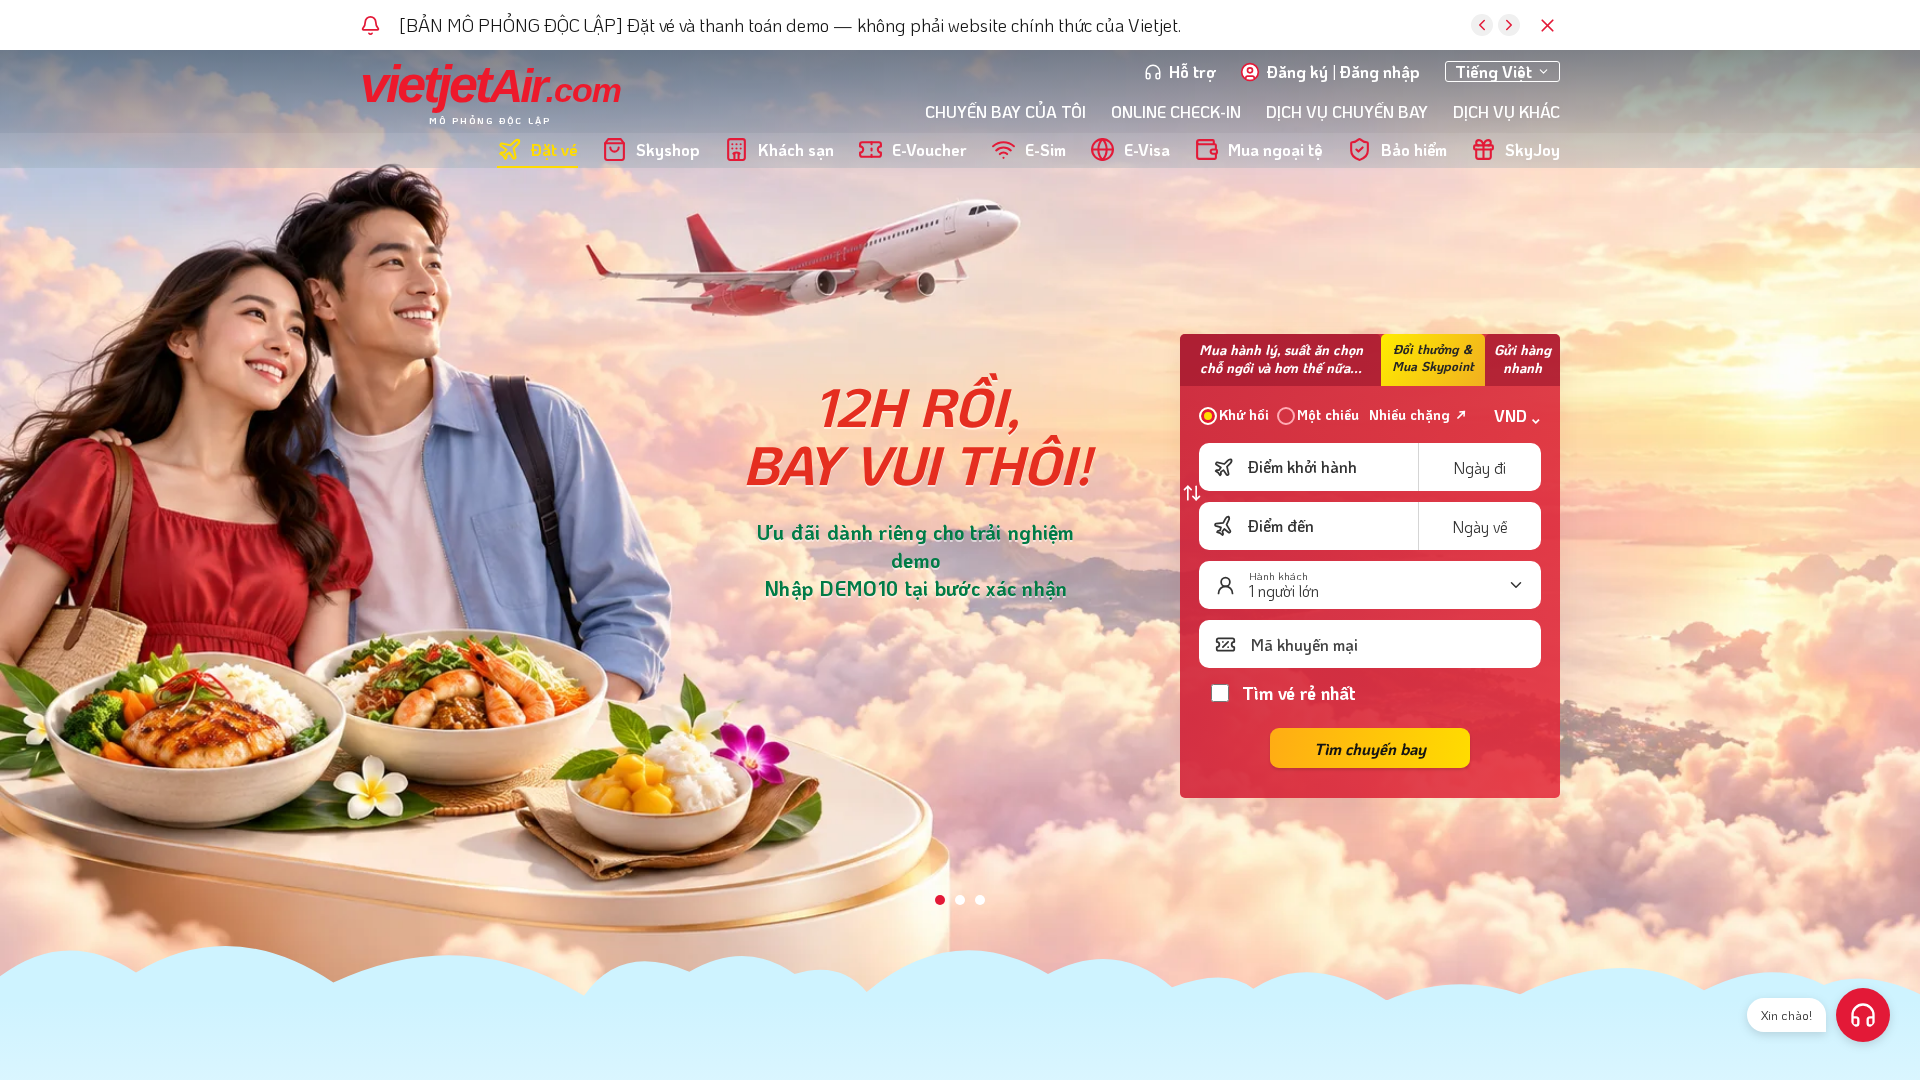
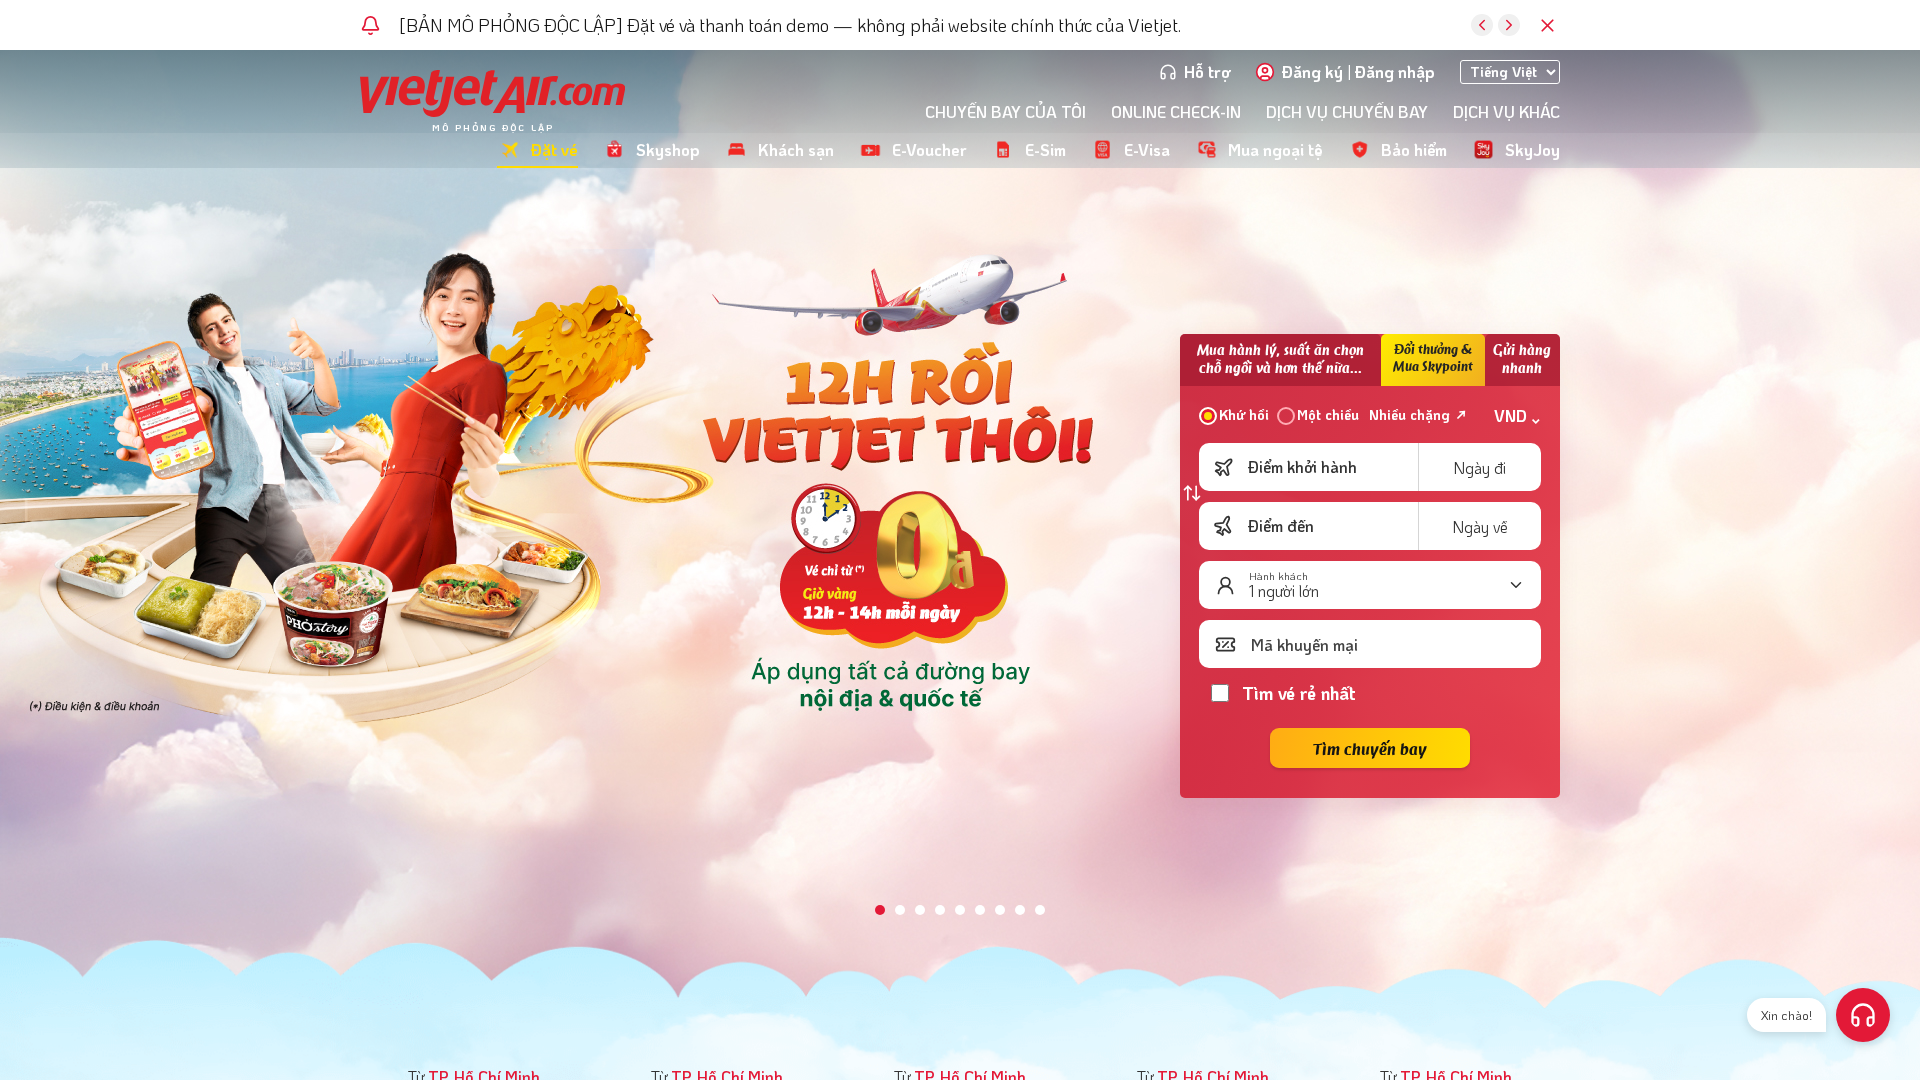
docs: lưu đối chiếu trang chủ và kết quả 30 backend 42 E2E

diff --git a/docs/verification/HOMEPAGE.md b/docs/verification/HOMEPAGE.md
@@ -1,9 +1,31 @@
-# Kiểm chứng trang chủ
+# Kiểm chứng trang chủ sau căn chỉnh
 
-Ngày 11/10/2026, Playwright Chromium truy cập `http://localhost:5173`, backend thật tại 8085 và PostgreSQL Docker tại 5438.
+Ngày 11/10/2026, Chromium kiểm tra Vite preview tại `http://localhost:5173`, Spring Boot tại 8085 và PostgreSQL local tại 5438. Kết quả mới nằm trong [home-alignment-results.json](home-alignment-results.json) và [home-checks.json](home-checks.json).
 
-Đã chụp toàn chiều dài và vùng đầu ở 1920×1080, 1440×900, 768×1024, 390×844. `home-checks.json` ghi nhận từng viewport: không pageerror, không tràn ngang, không ảnh hỏng. Đã thao tác sân bay SGN/HAN và lịch hai tháng, 61 ngày của tháng 10/11. Đã build Vite thành công.
+Trang chủ hiện dùng logo/font tiêu đề, chín banner với ảnh desktop/mobile, nền mây, ảnh khuyến mãi, sáu icon tiện ích, banner SkyJoy/mua sắm, ảnh dịch vụ/điểm đến, FAQ và giải thưởng từ bản tham chiếu. Nguồn 76 file nằm trong [sources.json](../../frontend/public/assets/reference/sources.json); asset được phục vụ từ local. V8 thêm sáu bản ghi HERO vào bảng nội dung hiện có, vẫn chỉnh được trong ADMIN.
 
-`desktop-comparison.png`: reference bên trái, local bên phải, cùng viewport. Đối chiếu trực quan đã dẫn tới sửa chiều cao tab form từ 69px xuống 52px, tăng icon/kích thước menu, giữ form rộng 380px và vị trí theo breakpoint desktop. Container 1200px và thứ tự section bám khảo sát.
+Các lệnh xác minh:
 
-Khác biệt còn lại: banner tạo mới, logo chữ/font Jambono thay thế, nền mây/section khuyến mại không dùng ảnh độc quyền của hãng, nội dung demo, ba banner thay vì chín, footer giới thiệu demo. Mobile giữ bộ chọn hành khách/mã khuyến mại để hoàn tất nghiệp vụ dù snapshot tham chiếu thu gọn các trường này. Không tuyên bố pixel-perfect tuyệt đối hoặc độ giống 100%.
+- `./backend/mvnw -f backend/pom.xml verify`: 30 test, không lỗi/thất bại/bỏ qua; migration V8 chạy trên PostgreSQL Testcontainers độc lập.
+- `npm run build`: đạt. `npm run check:i18n`: 522 vị trí dịch, 692 bản dịch tiếng Anh. Không thêm dependency của ứng dụng.
+- `npm run test:e2e`: 42 ca đạt trong một lượt hoàn chỉnh, gồm chín banner/vuốt từ banner cuối về đầu, caption CMS tùy chỉnh, footer mobile qua bàn phím và resize, đặt vé/check-in, quản lý, tài khoản, thương mại và quản trị.
+- `npm run verify:home`: desktop 1920×1080, laptop 1440×900, tablet 768×1024, mobile 390×844 đều không ảnh hỏng, link rỗng, lỗi console/pageerror hay tràn ngang. Ảnh được chụp sau khi cuộn và tải xong ảnh lazy.
+
+Đối chiếu tọa độ Y tại viewport 1920px, theo `docs/reference/audit.json` và số đo DOM local; đơn vị px:
+
+| Khối | Tham chiếu | Local |
+|---|---:|---:|
+| Khung đặt vé | 334 | 334 |
+| Đặt vé ngang | 1480,016 | 1480 |
+| Banner thông tin | 1719,016 | 1718,484 |
+| Icon tiện ích | 2070,531 | 2070,984 |
+| SkyJoy | 2321,531 | 2320,578 |
+| Mua sắm | 3040,844 | 3040,578 |
+| Điểm đến | 3570,875 | 3570,578 |
+| Các ô FAQ | 4118,375 | 4118,078 |
+
+Container rộng 1200px, khung đặt vé rộng 380px. Sai lệch dưới 1px trong bảng là tọa độ của các khối đã đo, không phải phần trăm giống ảnh của toàn trang.
+
+Ảnh mới: [desktop đầy đủ](home-desktop-full.png), [laptop đầy đủ](home-laptop-full.png), [tablet đầy đủ](home-tablet-full.png), [mobile đầy đủ](home-mobile-full.png); các file `home-*-top.png` ghi vùng đầu trang. `desktop-comparison.png` và ảnh checkout cũ là bằng chứng của lượt triển khai trước.
+
+Khác biệt còn lại: nhãn mô phỏng, giá/nội dung giao dịch từ API demo, chú thích số liệu, nội dung footer và nút hỗ trợ nội bộ thay chatbot hãng. Mobile giữ hành khách/mã khuyến mại để dùng đủ nghiệp vụ. Chữ bên trong poster tham chiếu vẫn là tiếng Việt khi chuyển giao diện sang tiếng Anh. Không công bố độ giống 100% hoặc xác minh hosting production.

diff --git a/docs/REFERENCE_AUDIT.md b/docs/REFERENCE_AUDIT.md
@@ -33,7 +33,7 @@ Viewport: desktop 1920×1080; laptop 1440×900; tablet 768×1024; mobile 390×84
 - Font nội dung: `KoHo`, sans-serif; tiêu đề/nút quảng cáo: `JambonoMedium`/`jambono-medium`.
 - Nội dung thường 16px, tiêu đề card 18px, tiêu đề banner 24px. Tiêu đề banner ribbon cao 42px tại desktop.
 - Container 1200px; ba cột dịch vụ có bước x≈410px, gap khoảng 30px. Sáu điểm đến có nhịp tương ứng.
-- Màu chủ đạo: đỏ, vàng, trắng, nền trời xanh. Màu computed chi tiết nằm trong JSON. Sản phẩm sẽ dùng biến CSS và KoHo (Google Fonts, SIL OFL), font thay thế cho Jambono chưa có giấy phép.
+- Màu chủ đạo: đỏ, vàng, trắng, nền trời xanh. Màu computed chi tiết nằm trong JSON. Sản phẩm dùng biến CSS, KoHo (Google Fonts, SIL OFL) và font Jambono tải từ bản tham chiếu; nguồn ghi trong `ASSETS.md`.
 - Chuyển slide được quan sát tự động. Không đo chắc chắn easing/duration nội bộ, không khẳng định autoplay pause-on-hover đã xác minh.
 
 ## Responsive và tương tác
@@ -49,7 +49,7 @@ Viewport: desktop 1920×1080; laptop 1440×900; tablet 768×1024; mobile 390×84
 - Lazy loading không ổn định: một số lượt chụp laptop chỉ tải được vùng đầu trong thời gian chờ; desktop-full có nội dung đầy đủ là mốc cấu trúc chính. Không xem vùng trắng trong ảnh lỗi tải là layout cần sao chép.
 - Một số click bằng label bị input intercept hoặc popup trước đó còn mở. Lỗi giữ nguyên trong JSON; không khẳng định mọi menu, bàn phím, lịch giá, sticky behavior hay trang sau thanh toán của hãng đã được kiểm tra.
 - Không thực hiện giao dịch thật, không thử đăng nhập hãng và không vượt reCAPTCHA.
-- Chưa xác minh quyền tái sử dụng banner, ảnh, mascot và Jambono của hãng. Không đưa chúng vào frontend. Banner sẽ là ảnh tạo mới theo cùng bố cục; card dùng ảnh có giấy phép hoặc asset tạo mới. Logo là chữ dựng bằng CSS kèm nhãn mô phỏng, không dùng SVG gốc.
+- Quyết định ban đầu dùng ảnh tạo mới đã được thay đổi theo yêu cầu căn chỉnh giao diện. Frontend dùng bản tải local của logo, banner, icon, nền, ảnh dịch vụ/điểm đến và font tiêu đề tham chiếu; không gán giấy phép mở cho asset của chủ sở hữu gốc. Nguồn từng file nằm trong `frontend/public/assets/reference/sources.json`. Nhãn mô phỏng vẫn hiển thị; nút hỗ trợ dẫn vào nghiệp vụ nội bộ.
 - Bản demo giữ bố cục và thứ tự quan sát được, nhưng nội dung khuyến mại, giá, quy tắc check-in và quyền lợi hạng vé đều là dữ liệu demo. Nhãn độc lập hiển thị thường xuyên.
 - Chỉ VND cho giao dịch demo; ngôn ngữ và sản phẩm ngoài phạm vi có trang thông tin rõ ràng. Nhiều chặng được đánh dấu chưa hỗ trợ trong demo, không tạo luồng giả.
 

diff --git a/docs/VERIFICATION.md b/docs/VERIFICATION.md
@@ -41,7 +41,7 @@ Booking và hai test trang chủ chạy ở 1920×1080, 1440×900, 768×1024, 39
 
 ## Sai lệch và giới hạn
 
-Đối chiếu header/hero/widget/container/section/footer với snapshot reference đã thu thập, đã sửa kích thước tab, menu và breakpoint. Hero đã có ba ảnh riêng, chiến dịch 12h dùng bố cục người/món ăn bên trái và tiêu đề ở giữa; tablet xếp form dưới banner theo screenshot tham chiếu. Ảnh tạo mới, logo chữ, font tiêu đề thay thế, số slide, section khuyến mại/achievement minh họa và nội dung demo vẫn khác reference. Chưa có metric chứng minh pixel-perfect; không công bố độ giống 100%.
+Lượt căn chỉnh mới dùng logo/font/banner/nền/icon và ảnh dịch vụ/điểm đến tham chiếu, đủ chín slide. Header, khung đặt vé và các khối chính được đối chiếu số đo desktop; bốn viewport có ảnh full/top mới. Kết quả kiểm chứng mới nằm trong [HOMEPAGE.md](verification/HOMEPAGE.md); bảng và ảnh checkout phía trên là kết quả lịch sử. Nội dung giao dịch, nhãn demo, chatbot và footer vẫn có khác biệt; không công bố độ giống 100%.
 
 Một số trang/interaction reference chưa xác minh do lazy loading và popup; không vượt hạn chế truy cập. Nghiệp vụ nội bộ nhiều chặng/nhóm, đổi/mua thêm/hoàn vé, quản trị và thương mại đã được bổ sung; kết quả mới ở [INTERNAL_VERIFICATION.md](INTERNAL_VERIFICATION.md). Dịch vụ đối tác, email và vé/boarding pass thật còn trong backlog nhà cung cấp. Chỉ kiểm thử môi trường local; chưa triển khai hay kiểm chứng production hosting, load test, refund thật hoặc accessibility audit đầy đủ.
 
@@ -56,4 +56,4 @@ npm run test:e2e
 npm run verify:home
 ```
 
-Xem README để khởi động database/backend/frontend và cài Chromium. Kết quả lần chạy sau có thể thay đổi khi môi trường, ngày hoặc dữ liệu mẫu thay đổi; các test chọn ghế còn trống thay vì cố định một ghế đã được dùng. Test khứ hồi chọn ngày đủ hai ghế từ API; test một chiều chạy SGN–HAN ngày mai, chọn ghế tiêu chuẩn còn trống. Nếu đã dùng hết các chuyến/ghế tiêu chuẩn của hành trình đó, cần chọn ngày khác cho fixture hoặc dùng môi trường demo riêng.
+Xem README để khởi động database/backend/frontend và cài Chromium. Kết quả lần chạy sau có thể thay đổi khi môi trường, ngày hoặc dữ liệu mẫu thay đổi. Test khứ hồi chọn ngày đủ hai ghế từ API; test một chiều tìm ngày còn ghế thường trên chuyến SGN–HAN đầu tiên, trong 30 ngày tới. Không xóa/reset dữ liệu local khi chạy lại.

diff --git a/docs/ASSETS.md b/docs/ASSETS.md
@@ -1,5 +1,7 @@
 # Nguồn asset
 
+Các ảnh tạo ban đầu dưới đây được giữ cho nội dung khác và trường hợp chỉnh caption trong CMS. Trang chủ mặc định hiện dùng artwork tham chiếu ở mục sau.
+
 - `frontend/public/assets/hero-bay.webp`: ảnh tạo mới bằng imagegen ngày 11/10/2026. Bố cục máy bay đỏ/trắng trên vịnh Hạ Long, bầu trời và vùng trống cho booking widget. Không sao chép banner hãng.
 - `hero-campaign.webp`: ảnh tạo mới bằng imagegen, 1774×887; hai khách du lịch, ba món ăn trên bục tròn, máy bay đỏ/trắng nhỏ và mây hồng. Prompt yêu cầu poster hàng không nguyên bản, người/món ăn bên trái, vùng giữa và bên phải trống cho nội dung HTML và widget, không chữ/logo. Bố cục tham chiếu chiến dịch 12h; không dùng poster gốc.
 - `hero-island.webp`: ảnh tạo mới bằng imagegen, 1774×887; gia đình ba người, vali vàng, máy bay nhỏ trên biển và đảo nhiệt đới. Prompt yêu cầu ảnh quảng cáo nguyên bản, nhân vật ở một phần ba trái, trời xanh thoáng ở giữa/phải, không chữ/logo. Cả hai ảnh được chuyển WebP chất lượng 84; bản PNG gốc giữ ngoài repo trong thư mục generated_images của Codex.
@@ -11,6 +13,6 @@
 
 ## Asset căn chỉnh giao diện
 
-Theo yêu cầu căn chỉnh giao diện, `frontend/public/assets/reference/` lưu bản tải của logo, banner desktop/mobile, icon và font tiêu đề từ trang tham chiếu công khai `https://www.vietjetair.com/vi`. Nguồn đầy đủ từng file nằm trong `sources.json`; chạy `node scripts/sync-home-artwork.mjs` để tải lại. Đây là asset tham chiếu của chủ sở hữu gốc, không phải ảnh AI hay asset do dự án sáng tác; không gán giấy phép mở cho các file này.
+Theo yêu cầu căn chỉnh giao diện, `frontend/public/assets/reference/` lưu bản tải của logo, chín banner desktop/mobile, nền mây, ảnh dịch vụ/điểm đến, icon, ảnh giải thưởng và font tiêu đề từ trang tham chiếu công khai `https://www.vietjetair.com/vi`. Nguồn đầy đủ 76 file nằm trong `sources.json`; chạy `node scripts/sync-home-artwork.mjs` để tải lại. Đây là asset tham chiếu của chủ sở hữu gốc, không phải ảnh AI hay asset do dự án sáng tác; không gán giấy phép mở cho các file này.
 
 Banner có chữ được hiển thị nguyên ảnh, kèm tiêu đề đọc được bằng trình đọc màn hình, để tránh chồng thêm chữ HTML. Các giá/chiến dịch trong artwork thuộc ảnh tham chiếu; giá và giao dịch của ứng dụng được trả từ API demo. Ảnh CMS tùy chỉnh tiếp tục hiển thị trực tiếp cùng tiêu đề HTML.

diff --git a/docs/UI_COMPONENTS.md b/docs/UI_COMPONENTS.md
@@ -14,4 +14,6 @@ CSS variables: màu đỏ/vàng/trời, max-width 1200px, border radius, shadow,
 
 BookingContext chỉ giữ draft của luồng; trạng thái nhỏ nằm tại component. API layer Axios dùng `/api`; useApi cleanup AbortController, useQuote debounce/cancel, usePopup xử lý click outside/Escape. Các page checkout tải bằng React.lazy/Suspense; RHF chỉ tải ở trang hành khách, Zod dùng chung cho validation tìm chuyến và các form. Không thêm Motion hoặc CMS.
 
-Hero dùng ba ảnh nguyên bản riêng, nội dung từ `content_items` và migration V3. Ở viewport ≤900px, banner nằm trên form toàn chiều ngang; header rút gọn và navigation cố định bên dưới. Tiêu đề chiến dịch 12h ở vùng giữa trên desktop và bên phải trên tablet/mobile. Các ô hành khách/mã khuyến mại được giữ để thao tác đầy đủ trong demo, khác trạng thái ẩn của reference đã chụp.
+Hero dùng chín banner từ `content_items` (V3/V8), với bản desktop/mobile trong `assets/reference`. Artwork có chữ giữ tiêu đề cho trình đọc màn hình; khi ADMIN chỉnh tiêu đề/mô tả, component chuyển sang hiển thị caption HTML để nội dung mới không bị che. Dịch vụ và FAQ tùy chỉnh cũng giữ caption mới. `artwork.js` chỉ ánh xạ hình của catalog mặc định, không tính giá hay nghiệp vụ chuyến bay.
+
+Ở viewport ≤900px, banner nằm trên form toàn chiều ngang; header rút gọn và navigation cố định bên dưới. Mobile giữ các ô hành khách/mã khuyến mại để thao tác đầy đủ trong demo. Các dãy card cuộn ngang bằng CSS scroll-snap; footer dùng `details/summary` thu gọn, mở được bằng bàn phím và tự hiển thị đầy đủ khi đổi sang desktop. Ảnh lazy có tỷ lệ/kích thước dự phòng để tránh đẩy các khối dưới khi tải.

diff --git a/README.md b/README.md
@@ -126,7 +126,7 @@ Cửa hàng giữ hàng 15 phút; đơn hủy/hết hạn trả tồn kho. Nhậ
 
 ## Giới hạn và khác biệt với reference
 
-- Banner/card được tạo mới; KoHo có giấy phép OFL, font tiêu đề và logo chữ thay thế. Không có quyền sử dụng asset độc quyền của hãng nên không sao chép chúng. Demo có ba ảnh banner riêng cho chiến dịch 12h, kết nối bầu trời và du lịch gia đình; reference tại mốc khảo sát có chín slide. Không tuyên bố giống 100%.
+- Trang chủ dùng logo, chín banner có ảnh desktop/mobile, nền mây, icon, ảnh dịch vụ/điểm đến và font tiêu đề từ bản tham chiếu. Nguồn từng file ở [ASSETS](docs/ASSETS.md); ảnh được tải từ local. Nhãn mô phỏng, giá/giao dịch demo và nút hỗ trợ nội bộ vẫn có khác biệt. Xem [kiểm chứng giao diện](docs/verification/HOMEPAGE.md).
 - Nội dung khuyến mại, giá, quyền lợi, sơ đồ 72 ghế (71 ghế bán), số liệu/giải thưởng minh họa và thời gian check-in là dữ liệu demo; không phải quy định hãng thật.
 - Hỗ trợ một chiều, khứ hồi, nhiều chặng (2–6), đặt nhóm (tối đa 30 hành khách), VND và chuyển Việt/Anh. Nội dung do quản trị viên nhập được giữ nguyên nếu chưa có bản dịch tương ứng.
 - Khách sạn, eSIM, eVisa, ngoại tệ, xuất vé/thu tiền/hoàn tiền thật, email/SMS và đồng bộ SkyJoy/Skyshop thật còn chờ nhà cung cấp; xem [backlog tích hợp](docs/PROVIDER_BACKLOG.md). Voucher, cửa hàng và hội viên hiện có nghiệp vụ nội bộ với dữ liệu riêng.

diff --git a/docs/UI_ALIGNMENT_PLAN.md b/docs/UI_ALIGNMENT_PLAN.md
@@ -5,7 +5,7 @@ Mục tiêu: căn chỉnh giao diện theo ảnh Vietjet trong `docs/reference`,
 - [x] Header và hero: logo, icon sản phẩm, vị trí bộ chọn ngôn ngữ, ảnh banner riêng cho desktop/mobile, tỷ lệ ảnh và khung đặt vé. Build, i18n và 16 test trang chủ/đặt vé đã đạt.
 - [x] Nội dung và footer: đã căn chỉnh nền, ảnh, icon, tỷ lệ, khoảng cách và footer thu gọn trên mobile. 42 test E2E đạt, gồm kiểm tra nội dung CMS tùy chỉnh và mở footer bằng bàn phím.
 - [x] Slider đủ chín banner: V8 bổ sung sáu nội dung HERO, ảnh riêng desktop/mobile. PostgreSQL migration và 30 test backend đạt; 42 E2E đạt, gồm chuyển banner 9 và vuốt về banner 1.
-- [ ] Lưu ảnh kiểm chứng, kiểm tra toàn bộ E2E, cập nhật tài liệu nguồn ảnh và khác biệt còn lại; commit và push.
+- [x] Lưu ảnh kiểm chứng cả bốn viewport, kết quả 30 backend/42 E2E, số đo đối chiếu và nguồn 76 asset. Cập nhật tài liệu và các khác biệt còn lại.
 
 Quyết định: dùng asset công khai của trang tham chiếu thay cho ảnh minh họa tạo mới để đáp ứng yêu cầu giống giao diện. Lưu nguồn từng asset; ứng dụng tải từ local. Nhãn mô phỏng và nội dung nghiệp vụ demo vẫn hiển thị.
 
